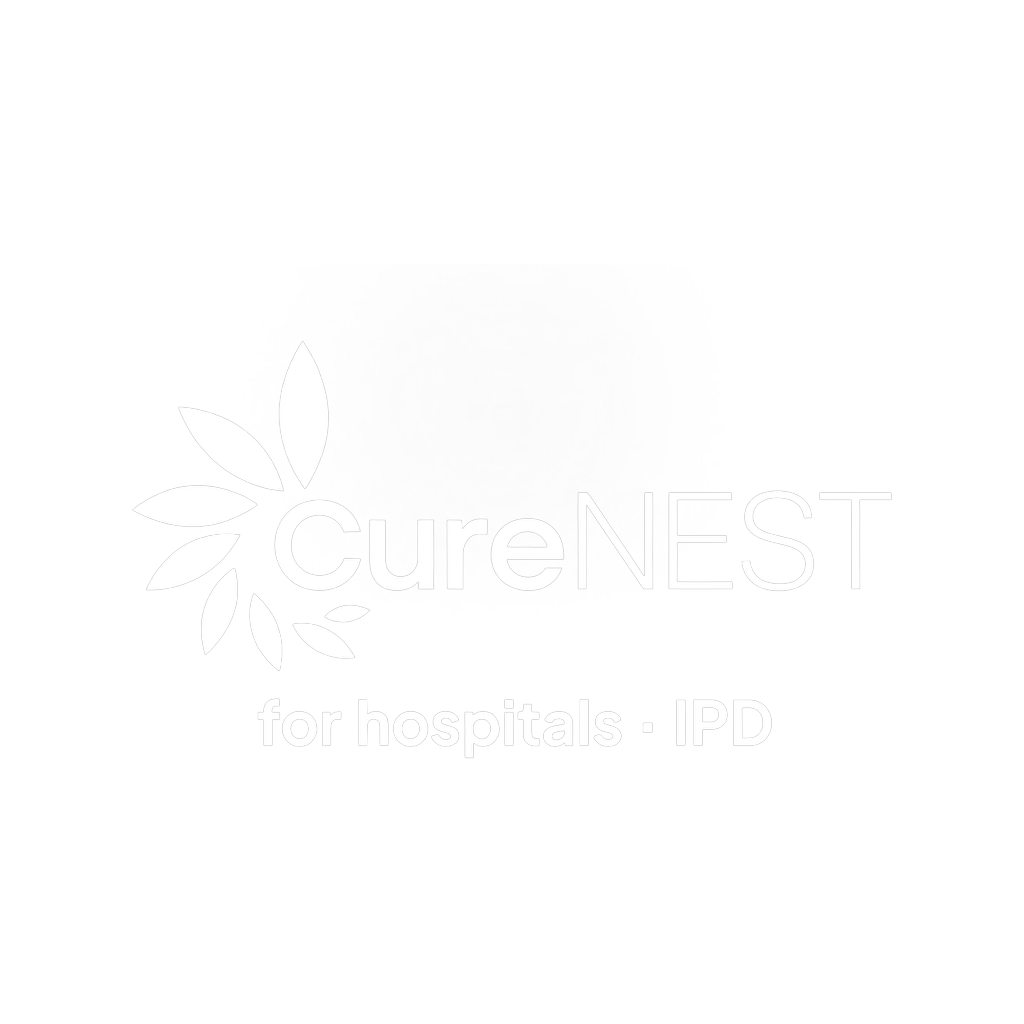
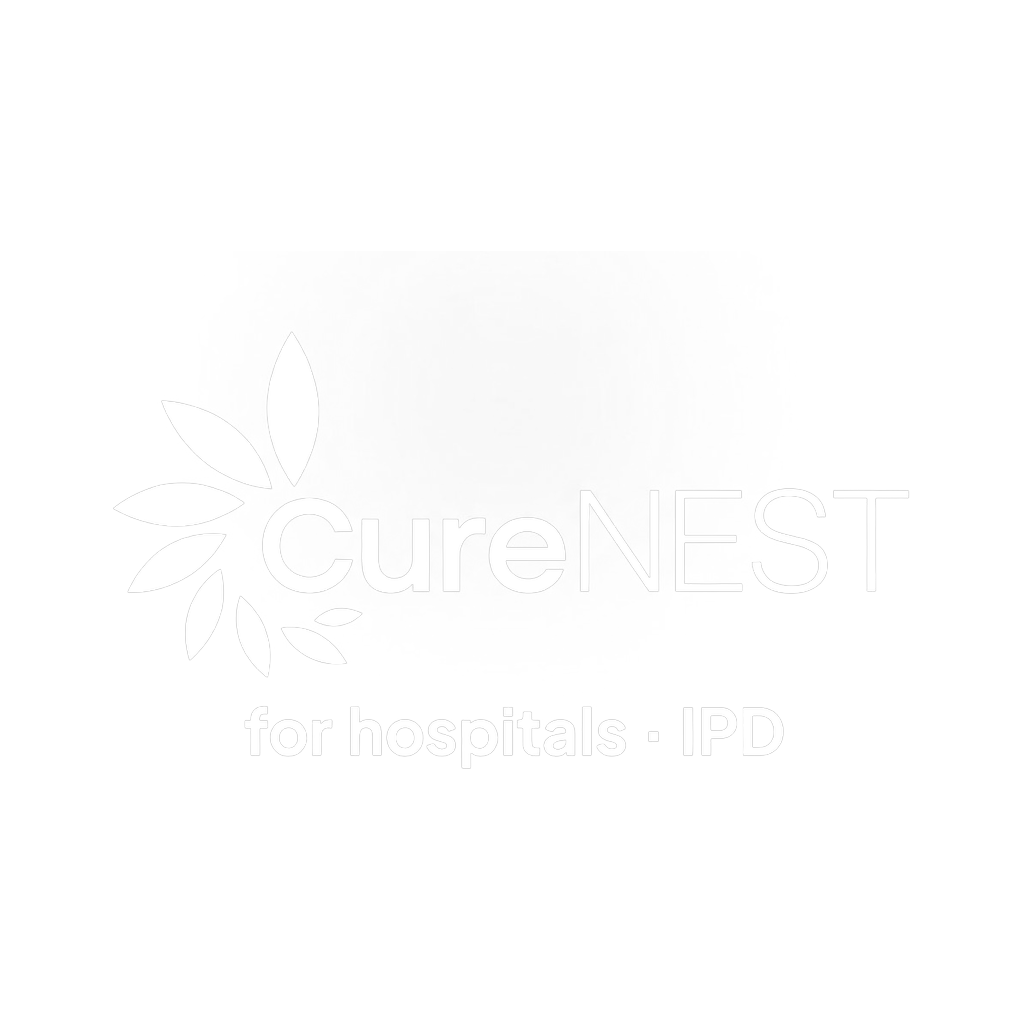
feat: replace old CureNEST placeholder with official CureNEST emblem across architecture diagrams

diff --git a/src/components/animations/PageThemedVisual.jsx b/src/components/animations/PageThemedVisual.jsx
@@ -627,12 +627,12 @@ export default function PageThemedVisual({ pageId = 'pulseport' }) {
               <image href="/assets/rbcurexia-logo-4k.webp" x="-26" y="-22" width="52" height="44" preserveAspectRatio="xMidYMid meet" />
             </g>
 
-            {/* NODE 1: TOP - CURENEST (IPD) */}
+            {/* NODE 1: TOP - CURENEST (IPD) - Official Brand Logo from User */}
             <g transform="translate(215, 35)" className="cursor-pointer">
               <g>
                 <animateTransform attributeName="transform" type="translate" values="0 0; 0 -6; 0 0" dur="6s" repeatCount="indefinite" />
                 <rect x="0" y="0" width="110" height="88" rx="14" fill="#0c051e" stroke="#8b5cf6" strokeWidth="2" filter="url(#hub-glow)" />
-                <image href="/assets/rbcurexia-logo-4k.webp" x="25" y="10" width="60" height="48" preserveAspectRatio="xMidYMid meet" />
+                <image href="/assets/brand-curenest-symbol.png" x="25" y="8" width="60" height="50" preserveAspectRatio="xMidYMid meet" />
                 <text x="55" y="66" fill="#ffffff" fontSize="10" fontWeight="bold" textAnchor="middle">CureNEST</text>
                 <text x="55" y="78" fill="#818cf8" fontSize="8" textAnchor="middle">for hospitals</text>
               </g>

diff --git a/src/components/3d/ArchitectureRooms3D.jsx b/src/components/3d/ArchitectureRooms3D.jsx
@@ -44,7 +44,7 @@ const ROOM_NODES = [
     tag: 'CRITICAL CARE, WARD OS & ICU',
     accent: '#06b6d4',
     route: '/curenest',
-    logo: '/assets/brand-curenest.png',
+    logo: '/assets/brand-curenest-symbol.png',
     liveUrl: null,
     equipment: [
       'Motorized High-Acuity ICU / Ward Bed with Safety Railings',
